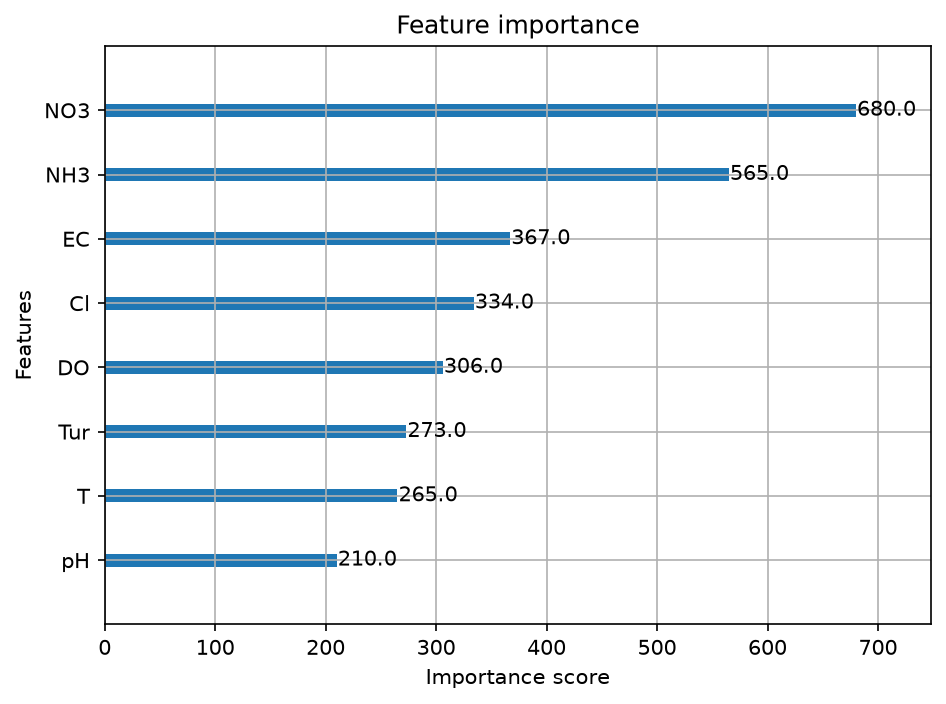
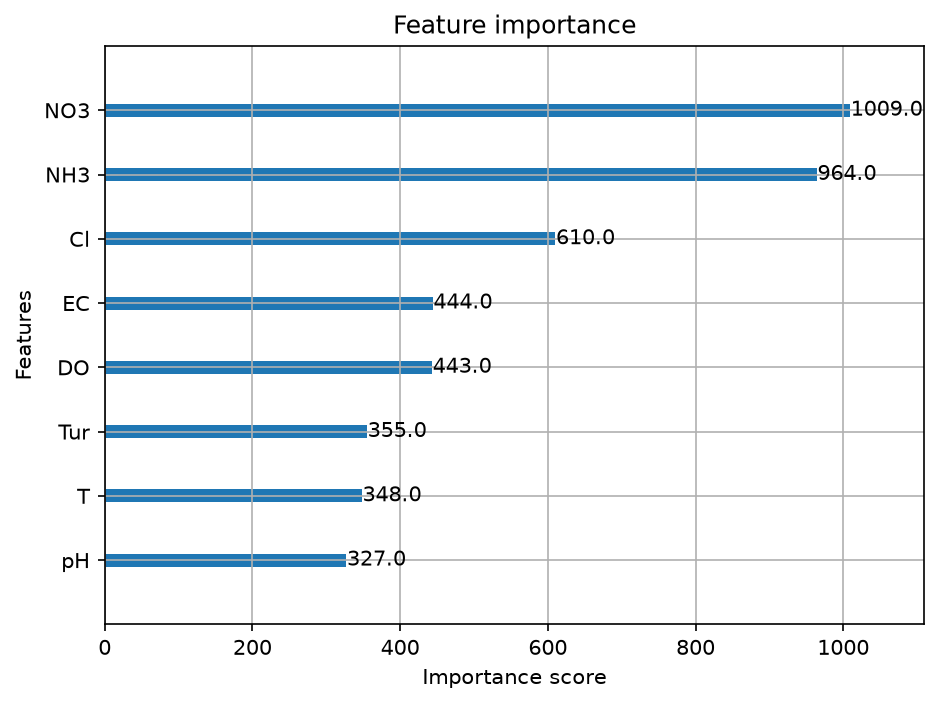
feat(deploy): add deploy_model.py for syncing zape with website

diff --git a/src/zaquares/deploy_model.py b/src/zaquares/deploy_model.py
@@ -1,0 +1,24 @@
+import json
+import shutil
+import xgboost as xgb
+from zaquares.zape import get_model, get_calibration
+
+def main():
+    model = get_model()
+    calibration = get_calibration()
+
+    shutil.copy("zape.ubj", "website/static/zape.ubj")
+
+    calibration_dict = {
+        "q_empty": float(calibration[0]),
+        "q_by_param": {
+            p: float(calibration[p + 1]) for p in range(8)
+        },
+    }
+    with open("website/static/zape_q.json", "w") as f:
+        json.dump(calibration_dict, f, indent=2)
+
+    print("DONE")
+
+if __name__ == "__main__":
+    main()
